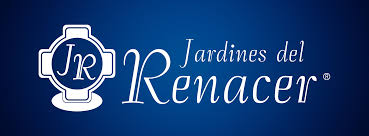
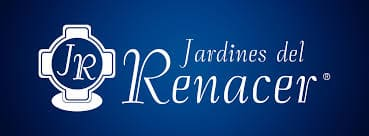
Modificación en nombres e imganenes

diff --git a/src/components/HeroSection.tsx b/src/components/HeroSection.tsx
@@ -5,10 +5,10 @@ import { useState, useEffect } from "react";
 const HeroSection = () => {
   // Array con los nombres de las imágenes (para el fondo principal)
   const slides = [
-    "./Galeria/slider1.jpg",
+    "./Galeria/slider1.png",
     "./Galeria/slider2.jpg",
     "./Galeria/slider3.jpg",
-    "./Galeria/slider4.jpg"
+    "./Galeria/slider4.png"
   ];
 
   const [currentSlide, setCurrentSlide] = useState(0);
@@ -41,12 +41,12 @@ const HeroSection = () => {
   ];
   const clienteImages = [
     "./Galeria/clientes1.jpg",
-    "./Galeria/clientes2.jpg",
+    "./Galeria/clientes2.jpeg",
     "./Galeria/clientes3.jpg"
   ];
   const terapeutaImages = [
-    "./Galeria/Terapeuta1.jpg",
-    "./Galeria/Terapeuta2.jpg",
+    "./Galeria/Terapeuta1.jpeg",
+    "./Galeria/Terapeuta2.jpeg",
     "./Galeria/Terapeuta3.jpg"
   ];
 
@@ -78,7 +78,7 @@ const HeroSection = () => {
             <div className="text-center lg:text-left">
               <div className="mb-6 flex justify-center lg:justify-start">
                 <img
-                  src="./Galeria/imagenhero.jpg"   // ✅ logo desde public
+                  src="./Galeria/imagenhero.png"   // ✅ logo desde public
                   alt="Un mundo de privilegios a su alcance"
                   className="h-32 w-auto object-contain"
                 />

diff --git a/src/pages/Empresa.tsx b/src/pages/Empresa.tsx
@@ -8,14 +8,14 @@ const Empresa = () => {
   // Tus 8 imágenes
   const images = [
     "./Galeria/empresa9.jpg",
-    "./Galeria/empresa2.jpg",
-    "./Galeria/empresa3.jpg",
-    "./Galeria/empresa4.jpg",
-    "./Galeria/empresa5.jpg",
-    "./Galeria/empresa6.jpg",
-    "./Galeria/empresa7.jpg",
-    "./Galeria/empresa8.jpg",
-    "./Galeria/empresa1.jpg",
+    "./Galeria/empresa2.jpeg",
+    "./Galeria/empresa3.jpeg",
+    "./Galeria/empresa4.jpeg",
+    "./Galeria/empresa5.jpeg",
+    "./Galeria/empresa6.jpeg",
+    "./Galeria/empresa7.jpeg",
+    "./Galeria/empresa8.jpeg",
+    "./Galeria/empresa1.jpeg",
   ];
 
   const [current, setCurrent] = useState(0);
